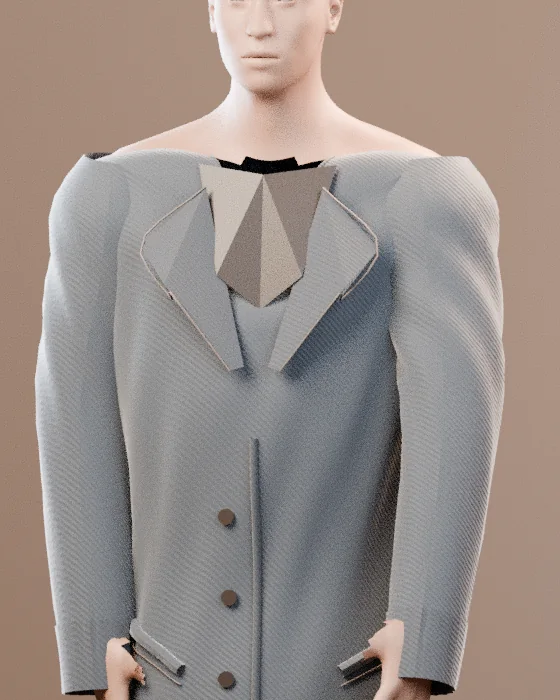
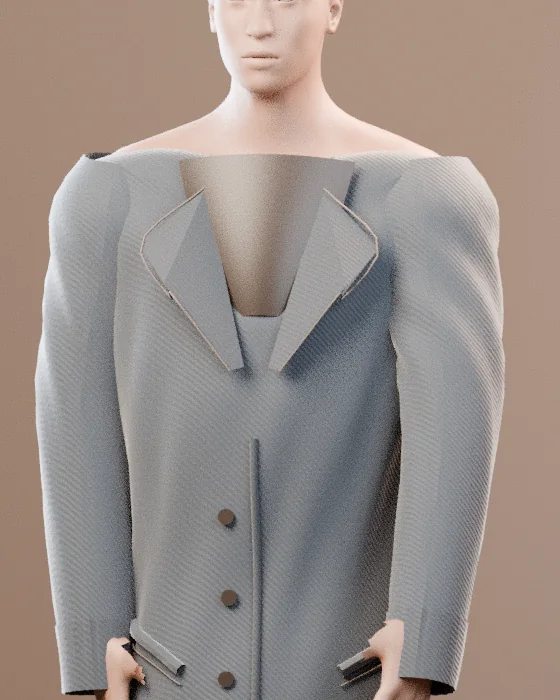
Use face-specific landmark confidence and refine layered shoulders

diff --git a/src/main.js b/src/main.js
@@ -38,7 +38,7 @@ let commands=Promise.resolve(), metricsAt=0, reportCount=0, prev=0, noticeTimer,
 let bounds={w:1,h:1}, renderKey=null;
 const enqueue=(fn)=>{const p=commands.then(fn);commands=p.catch(()=>{});return p;};
 const gpu=()=>!!studio&&!studio.lost;
-const semantic=()=>state.occlusion||Boolean(state.scan);
+const semantic=()=>state.occlusion||state.mode==='upper'||Boolean(state.scan);
 const source=()=>state.source==='live'&&video.readyState>=2?video:state.source==='photo'&&img.complete&&img.naturalWidth?img:null;
 const mediaSize=(m)=>[m?.videoWidth??m?.naturalWidth,m?.videoHeight??m?.naturalHeight];
 const sourceRect=(media)=>{
@@ -186,6 +186,7 @@ async function updateLook(updateForm) {
     }
   }catch(error){
     if(id!==display)return;
+    studio.clearGarment();
     if(state.source==='studio'){
       stage.dataset.renderer='flat';
       signal('رندر کاتالوگ','pending');
@@ -211,7 +212,7 @@ $$('button[data-filter]').forEach((b)=>b.addEventListener('click',()=>{state.fil
 function resetVision() {
   state.ready=false;state.tracked=null;state.mask=null;state.stamp=0;
   state.lastInfer=0;state.delegate='';
-  delete stage.dataset.mask;delete stage.dataset.vision;
+  delete stage.dataset.mask;delete stage.dataset.vision;delete stage.dataset.landmarks;
   smoothPose.clear();smoothFace.clear();
   lastFrame=-1;
   guide(null);message();
@@ -351,6 +352,7 @@ function applyTracking(result,at){
   state.delegate=result.delegate;state.lastInfer=result.timeMs;
   stage.dataset.vision=vision.worker?'worker':'main';
   if(result.mask)stage.dataset.mask='ready';
+  stage.dataset.landmarks=String((result.pose?.length??0)+(result.face?.length??0));
   const {pose,face,mask,matrix}=result;
   state.tracked={pose:pose?smoothPose.update(pose,at):null,face:face?smoothFace.update(face,at):null,matrix,
     mask:mask??state.mask};
@@ -398,8 +400,9 @@ function light(media) {
 }
 function scanPrompt(now){
   if(!state.scan)return false;
-  const {sensor,deadline}=state.scan;
-  if(now>deadline){
+  const {sensor}=state.scan;
+  state.scan.deadline??=now+42_000;
+  if(now>state.scan.deadline){
     state.scan=null;toast('هر دو نما کامل نشدند. لباس جذب، نور یکنواخت یا اندازههای مترخورده را امتحان کن.');
     return false;
   }
@@ -555,7 +558,7 @@ $('scan-start').addEventListener('click',()=>{
   const heightMm=Math.round(v.valueAsNumber*10);
   $('fit-dialog').close();changeFrame('full');
   if(state.source!=='live'||!stream&&!state.busy)changeSource('live');
-  state.scan={sensor:new TwoViewScan(heightMm),deadline:performance.now()+42000};
+  state.scan={sensor:new TwoViewScan(heightMm),deadline:null};
   guide('برای نمای اول، تمامقد روبهرو بایست.');
 });
 

diff --git a/src/tracking.js b/src/tracking.js
@@ -5,7 +5,8 @@ export const WORLD_HEIGHT=1.98;
 export const joint={ nose:0, sl:11,sr:12,el:13,er:14,wl:15,wr:16, il:19,ir:20,hl:23,hr:24,kl:25,kr:26,al:27,ar:28 };
 const V = (x=0,y=0,z=0)=>new T.Vector3(x,y,z);
 const mid=(a,b)=>a.clone().lerp(b,.5);
-export const confident=(p,min=.48)=>p&&Number.isFinite(p.x)&&Number.isFinite(p.y)&&Number.isFinite(p.z)&&(p.visibility??1)>=min;
+const pointOkay=(p)=>p&&Number.isFinite(p.x)&&Number.isFinite(p.y)&&Number.isFinite(p.z);
+export const confident=(p,min=.48)=>pointOkay(p)&&(p.visibility??1)>=min;
 
 export function contain(width,height,w,h) {
   const scale=Math.min(w/width,h/height);
@@ -50,8 +51,9 @@ function basis(x,up){
 }
 
 export function faceRig(points,matrix,rect,view,mirror,body) {
-  if(!points||!confident(points[33])||!confident(points[263]))return null;
-  const normalLeft=points[468]??points[33],normalRight=points[473]??points[263];
+  if(!points||![points[33],points[263],points[152]].every(pointOkay))return null;
+  const normalLeft=pointOkay(points[468])?points[468]:points[33];
+  const normalRight=pointOkay(points[473])?points[473]:points[263];
   const gaze=unproject([normalLeft,normalRight,points[152],points[168]??points[6]],rect,view,mirror,(normalLeft.z+normalRight.z)/2);
   const left=gaze[0].x<gaze[1].x?gaze[0]:gaze[1],right=gaze[0].x<gaze[1].x?gaze[1]:gaze[0];
   const center=mid(left,right), span=right.clone().sub(left).length();

diff --git a/src/atelier.js b/src/atelier.js
@@ -111,13 +111,19 @@ export class Atelier {
     this.reference={ shoulder:spec.measure.shoulder, torso:this.avatar.spec.shoulderY-this.avatar.spec.hipY };
     this.fresh=true;
   }
+  clearGarment(){
+    this.pendingGarment=false;
+    if(!this.wear)return;
+    this.wear.group.parent?.remove(this.wear.group);
+    this.wear.dispose();
+    this.wear=null;
+  }
   async garment(item,size,color,bytes) {
     const tag=++this.assetId;
     this.pendingGarment=true;
     const p=bytes?await importWear(item,size,bytes):makeWear(item,size,color,this.reference?.torso??.45);
     if(tag!==this.assetId){p.dispose();return false;}
-    this.pendingGarment=false;
-    if(this.wear){this.wear.group.parent?.remove(this.wear.group);this.wear.dispose();}
+    this.clearGarment();
     this.wear=p;
     this.item=item;
     this.attachment=item.frame;

diff --git a/src/wear.js b/src/wear.js
@@ -153,10 +153,11 @@ export function makeWear(item, size, color, torso=.45) {
     for(const a of [-1.57,1.57,Math.PI]) tube(group,m.lapel,track(a-.04,a,.19,.993),.0018,'Seam topstitch');
   }
   if(tailored) {
-    const v=.037+centerZ;
-    const insert=[[-.087,.041,v+.021],[0,.030,v+.056],[.087,.041,v+.021],
-      [.054,-.094,v+.085],[0,-.137,v+.080],[-.054,-.094,v+.085]];
-    panel(group,m.dark,insert,[0,1,5,1,4,5,1,2,3,1,3,4],'Underlayer at neckline');
+    mesh(group,grid(26,20,(u,t)=>{
+      const x=(u-.5)*2;
+      return [x*mix(.112,.060,t),.056-t*.199-.011*x*x,
+        centerZ+.091+.035*Math.sin(t*Math.PI/2)-.027*x*x];
+    },false),m.dark,'Knit underlayer');
     for(const s of [-1,1]) {
       const scale=shoulder/.214;
       const neck = [[.068,.014,.079],[.139,-.059,.111],[.093,-.127,.138],[.106,-.104,.144],

diff --git a/src/avatar.js b/src/avatar.js
@@ -150,6 +150,7 @@ export function makeAvatar(data, measure) {
         const at=i*3;
         const x=rest[at], y=rest[at+1];
         if(y<hem+.008||y>start)continue;
+        if(sleeved && y>base-.047 && Math.abs(x)<.077)continue;
         if(segments[i]===1||segments[i]===2){
           if(weights[i]>.65){
             if(!sleeved)continue;
